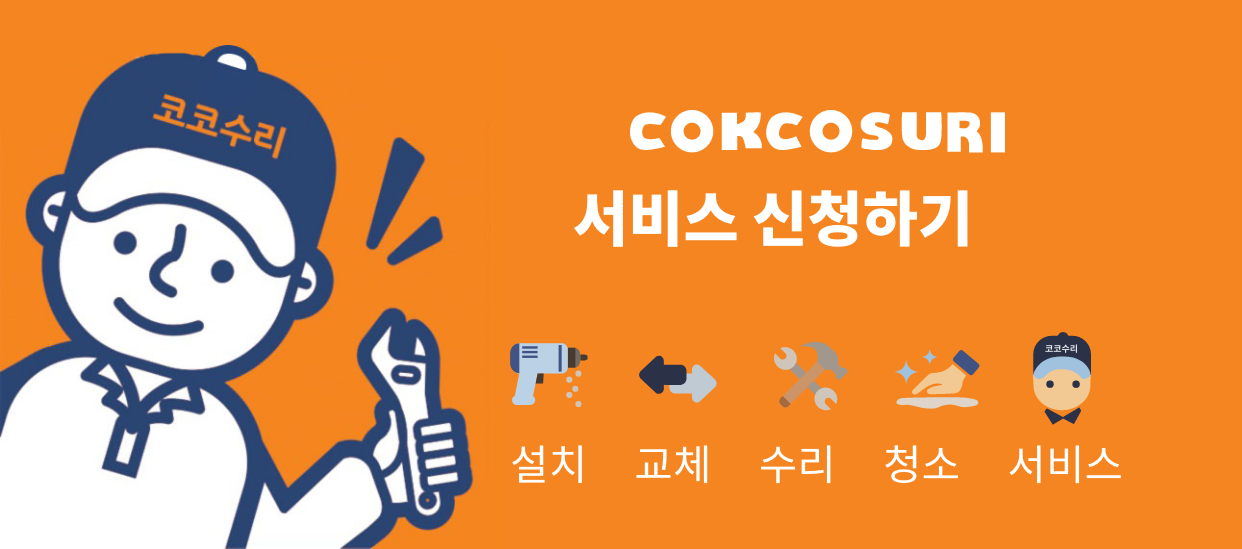
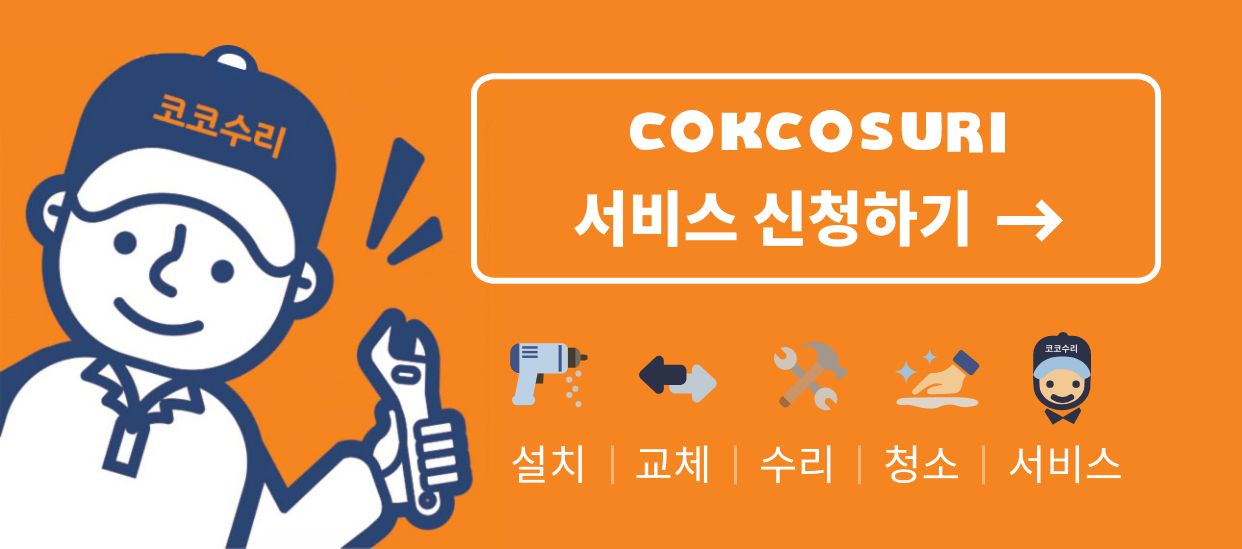
feat: 3/20 수정

Changed region(s): [[0.3671, 0.1239, 0.9485, 0.5264], [0.8261, 0.6812, 0.8873, 0.7432], [0.7955, 0.3716, 0.8567, 0.4335]]

diff --git a/cokco/desktop/styles/cokco/cokco.css b/cokco/desktop/styles/cokco/cokco.css
@@ -9,6 +9,10 @@ textarea {
     font-family: "Noto Sans KR", "Malgun Gothic", "Apple SD Gothic Neo", dotum, sans-serif;
 }
 
+body {
+    word-break: break-all;
+}
+
 img {
     display: block;
 }
@@ -143,6 +147,9 @@ button span {
 
 .cokco .fix-banner {
     padding: 0 16px 0;
+    width: 1160px;
+    margin: 0 auto;
+    box-sizing: border-box;
 }
 
 .cokco .fix-banner h2 {

diff --git a/cokco/mobile/styles/cokco/cokco-minimal.css b/cokco/mobile/styles/cokco/cokco-minimal.css
@@ -13,6 +13,7 @@ html {
 
 body {
     min-height: 100%;
+    word-break: break-all;
 }
 
 body.fixed,

diff --git a/cokco/mobile/styles/cokco/cokco.css b/cokco/mobile/styles/cokco/cokco.css
@@ -5,6 +5,7 @@ html {
 
 body {
     min-height: 100%;
+    word-break: break-all;
 }
 
 body.fixed,
